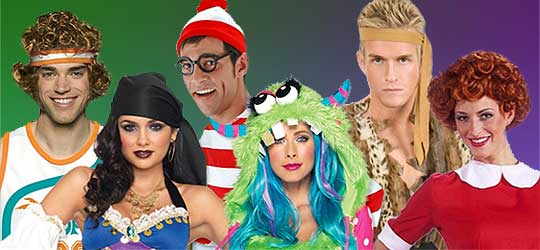
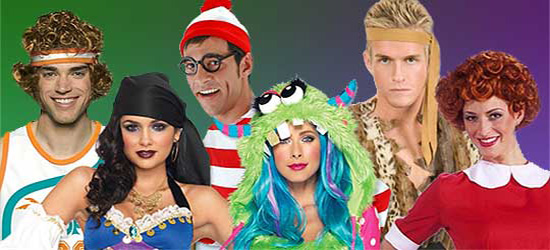
edited pictures

diff --git a/skins/plain/quake.skin.css b/skins/plain/quake.skin.css
@@ -1,7 +1,7 @@
 .quake-slider
 {
     background: url('images/loading.gif') no-repeat center;
-    width: 540px;
+    width: 550px;
     height: 250px;
     /*border: 5px solid #fff;*/
     box-shadow: 0px 0px 8px #90989e;
